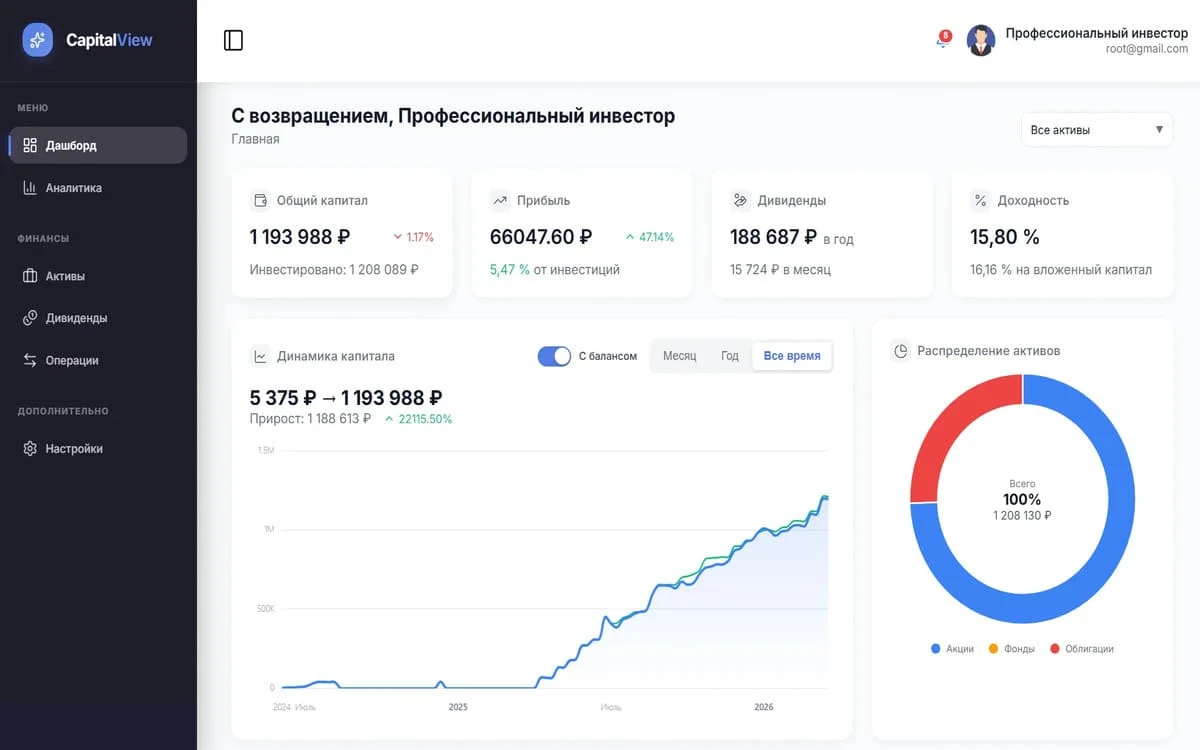
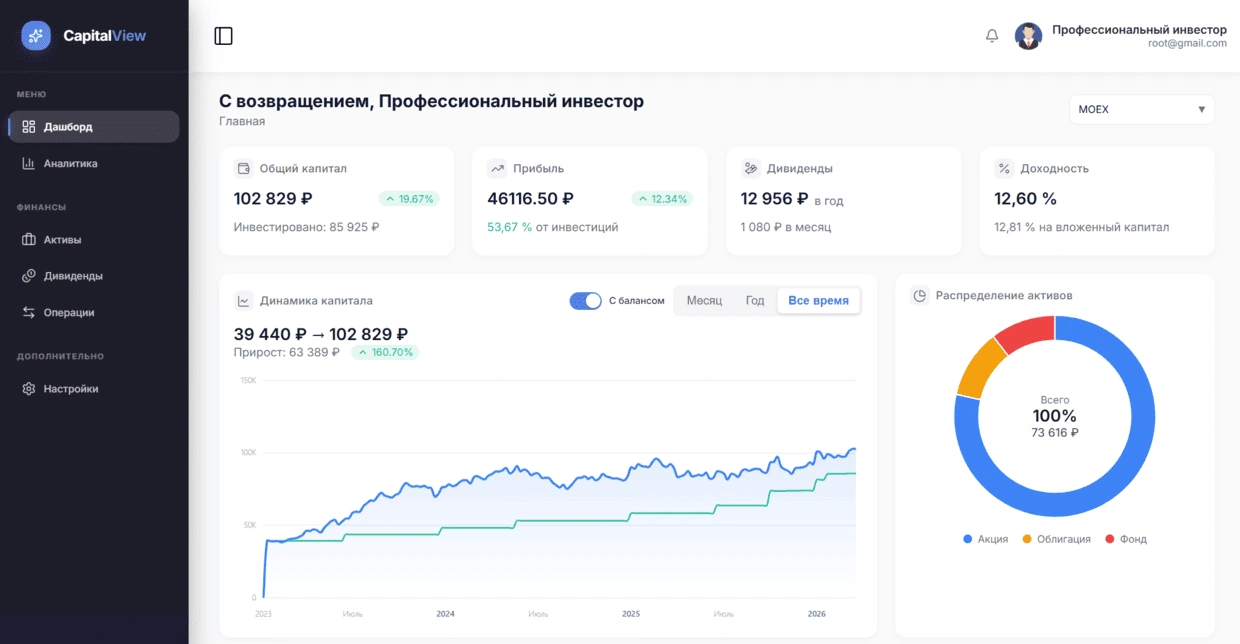
Change dashdoard screenhot

diff --git a/frontend/src/views/Home.vue b/frontend/src/views/Home.vue
@@ -250,22 +250,16 @@ onUnmounted(() => {
             <a href="#how-it-works" class="btn-secondary">Как это работает</a>
           </div>
         </div>
-
+        <!-- 1200 × 750 px - рекомендуемый размер -->
         <div class="hero-device reveal">
           <div class="laptop-mockup">
             <div class="laptop-screen">
               <img
-                src="/screenshots/hero-laptop-dashboard.webp"
+                src="/screenshots/hero-laptop-dashboard.webp" 
                 alt="Дашборд CapitalView на экране ноутбука — учёт и аналитика инвестиционного портфеля"
                 class="laptop-image"
                 @error="(e) => { e.target.style.display = 'none'; e.target.nextElementSibling?.classList.add('show') }"
               />
-              <div class="laptop-placeholder">
-                <ImageIcon :size="40" :stroke-width="1" />
-                <p>Ноутбук с дашбордом</p>
-                <span>Добавьте изображение: <code>public/screenshots/hero-laptop-dashboard.webp</code></span>
-                <span class="hint">Рекомендуемый размер: 1200 × 750 px</span>
-              </div>
             </div>
             <div class="laptop-base"></div>
           </div>
@@ -1050,7 +1044,7 @@ onUnmounted(() => {
   border: 3px solid #1a1a1a;
   border-bottom: none;
   overflow: hidden;
-  aspect-ratio: 16 / 10;
+  aspect-ratio: 2 / 1;
 }
 
 .laptop-image {
